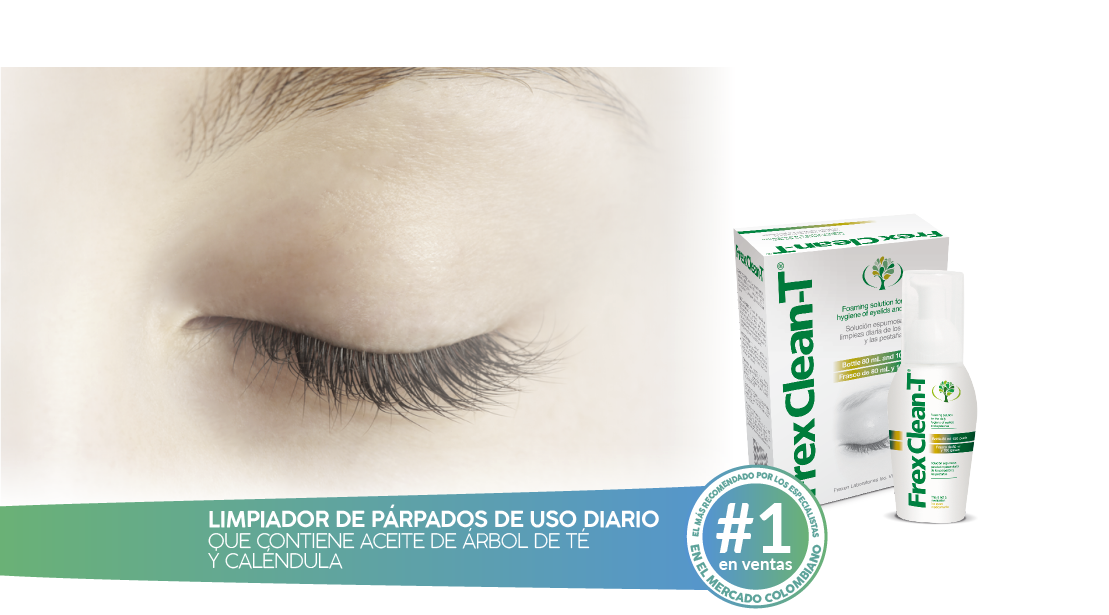
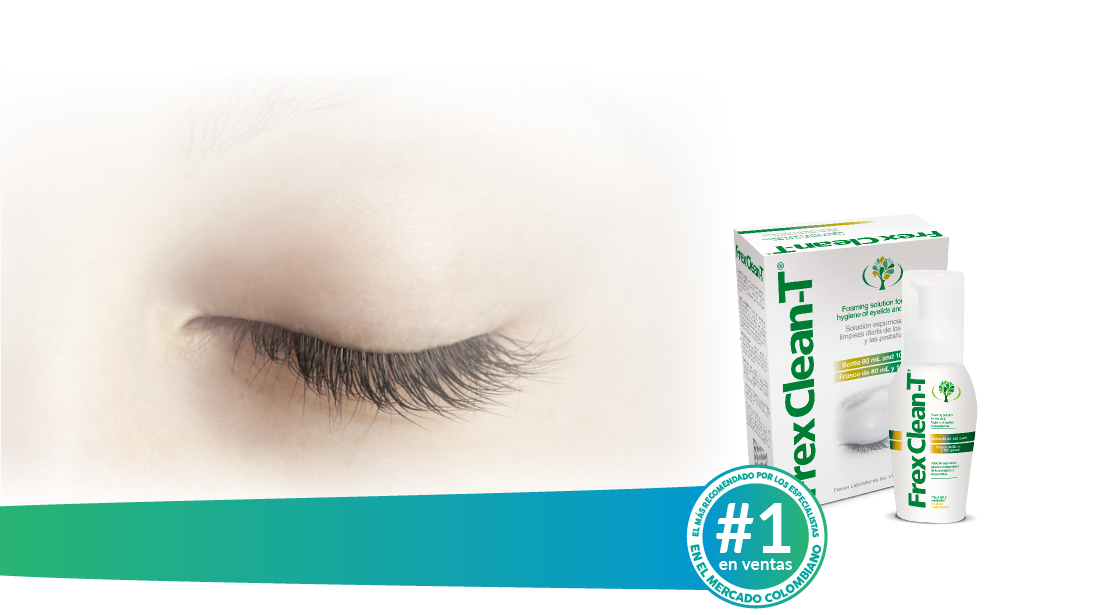
correccion: bannerMenu

Changed region(s): [[0.0, 0.0927, 0.6132, 0.5252], [0.0, 0.7415, 0.7665, 0.9886], [0.7971, 0.5561, 0.8278, 0.6179]]

diff --git a/css/estilos.css b/css/estilos.css
@@ -37,9 +37,16 @@ li {
   opacity: 0.5; }
 
 header {
-  background: url("../images/img_Header.png") no-repeat right bottom;
+  display: -webkit-box;
+  display: -ms-flexbox;
+  display: flex;
+  -webkit-box-orient: vertical;
+  -webkit-box-direction: normal;
+      -ms-flex-direction: column;
+          flex-direction: column;
+  background: url("../images/img_Header.png") no-repeat bottom center;
   background-size: cover;
-  height: 100vh; }
+  height: 110vh; }
   header #navbarNav ul li a {
     font-family: 'latoMedium', sans-serif;
     font-size: 1rem;
@@ -50,6 +57,24 @@ header {
     font-size: 1.2rem;
     font-weight: normal;
     color: #00a69c; }
+  header #bannerHeader {
+    display: -webkit-box;
+    display: -ms-flexbox;
+    display: flex;
+    margin-top: 29rem; }
+    header #bannerHeader .col-5 h2 {
+      font-family: 'latoBlack', sans-serif;
+      font-size: 1.2rem;
+      font-weight: normal;
+      color: white;
+      text-align: left; }
+    header #bannerHeader .col-5 p {
+      font-family: 'latoRegular', sans-serif;
+      font-size: 1.2rem;
+      font-weight: normal;
+      color: white;
+      margin-top: -0.5rem;
+      text-align: left; }
 
 #beneficios h2 {
   font-family: 'latoBlack', sans-serif;

diff --git a/index.html b/index.html
@@ -40,7 +40,7 @@
       <div class="collapse navbar-collapse d-flex flex-row-reverse" id="navbarNav">
         <ul class="navbar-nav">
           <li class="nav-item active">
-            <a class="nav-link" data-scroll  href="#beneficios">BENEFICIOS <span class="sr-only">(current)</span></a>
+            <a class="nav-link" data-scroll href="#beneficios">BENEFICIOS <span class="sr-only">(current)</span></a>
           </li>
           <li class="nav-item">
             <a class="nav-link" data-scroll href="#bannerEnfermedades">DEMODEX</a>
@@ -54,9 +54,21 @@
         </ul>
       </div>
     </nav>
-    <!-- inicia menu -->
+    <!-- termina menu -->
+    <div id="bannerHeader">
+      <div class="col-3"></div>
+      <div class="col-5">
+        <h2>LIMPIADOR DE PÁRPADOS DE USO DIARIO
+        </h2 >
+        <p style="font-weight:300">QUE CONTIENE ACEITE DE ÁRBOL DE TÉ <br> Y CALÉNDULA</p>
+      </div>
+      <div class="col-4"></div>
+
+    </div>
+
   </header>
   <!-- Finaliza Header -->
+
 
   <main>
     <!-- inicia seccion Beneficios -->

diff --git a/scss/estilos.scss b/scss/estilos.scss
@@ -113,9 +113,11 @@ li{
 
 // estilos menu
 header {
-    background: url('../images/img_Header.png') no-repeat right bottom;
+    display: flex;
+    flex-direction: column;
+    background: url('../images/img_Header.png') no-repeat bottom center;
     background-size: cover;
-    height: 100vh;
+    height: 110vh;
     #navbarNav {
         ul {
             li {
@@ -129,6 +131,26 @@ header {
                 }
             }
         }
+    }
+
+    #bannerHeader{
+        display: flex;
+        margin-top: 29rem;
+        
+        .col-5{
+            h2{
+                @include miH2(white, 1.2rem);
+                text-align: left;
+            }
+            p{
+                @include mip(white,1.2rem );
+                margin-top: -0.5rem;
+                text-align: left;
+            }
+            
+        }
+        
+        
     }
 }
 
